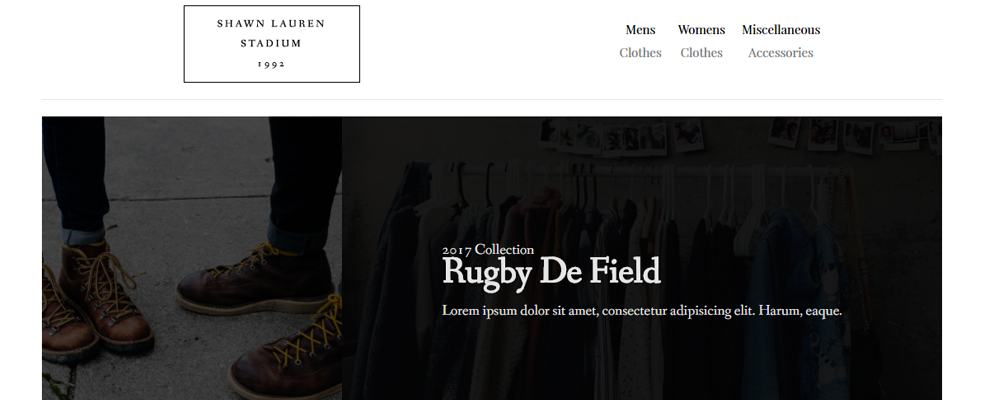
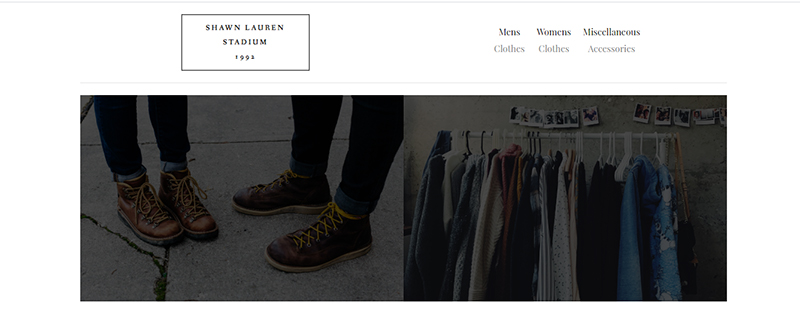
shawn lauren, infrastructure, sb

diff --git a/src/components/pages/portfolio-pages/SophisticatedBlog.js b/src/components/pages/portfolio-pages/SophisticatedBlog.js
@@ -1,0 +1,29 @@
+import React, { Component } from "react";
+import "./portfolio-pages.scss";
+
+class SophisticatedBlog extends Component {
+  render() {
+    return (
+      <React.Fragment>
+        <main className="pf-page">
+          <div className="pf-info">
+            <h2>Sophisticated Blog</h2>
+            <img src={require('./../../../assets/image/sb_logo.jpg')} alt="Sophisticated Blog" className="pf-logo" />
+            <a className="pf-btn" target="_blank" href="https://mohamed-m.github.io/sophisticated-blog/">View on Github</a>
+            </div>
+          <div className="left-panel">
+            <p className="pf-copy">A simple one landing page for a blog with a full viewport height cinemagraph. It is open source and hosted on Github for downloading.</p>
+            <p className="pf-copy">I created this landing page with a goal of making it the index of my blog site. But after further consideration, I pivoted and chose the design in the Articles sections for my blog design.</p>
+            <p className="pf-copy">The technologies were only HTML5 markup and CSS3 custom styles. I utilized Gulp as my task runner, and structured each component and/or page into to a separate SCSS file. I used PostCSS as post-processor, and Sass as the pre-preprocessor. Git was the version control used on this project.</p>
+          </div>
+
+          <div className="right-panel">
+            <img src={require('./../../../assets/image/sb.jpg')} alt="" className="pf-feature-img" />
+            <img src={require('./../../../assets/image/sb2.jpg')} alt="Sophisticated Blog" className="pf-img" />        
+          </div>
+        </main>
+    </React.Fragment>
+    );
+  }
+}
+export default SophisticatedBlog;

diff --git a/src/components/pages/portfolio-pages/ShawnLauren.js b/src/components/pages/portfolio-pages/ShawnLauren.js
@@ -1,0 +1,28 @@
+import React, { Component } from "react";
+import "./portfolio-pages.scss";
+
+class ShawnLauren extends Component {
+  render() {
+    return (
+      <React.Fragment>
+        <main className="pf-page">
+          <div className="pf-info">
+            <h2>Shawn Lauren 1992 Stadium</h2>
+            <img src={require('./../../../assets/image/shawn-lauren_logo.jpg')} alt="Shawn Lauren" className="pf-logo" />
+            <a className="pf-btn" target="_blank" href="https://mohamed-m.github.io/shawn-lauren">Visit Site</a>
+            </div>
+          <div className="left-panel">
+            <p className="pf-copy">A fashion landing page with 2 funnel channels. The title of the site is paying homage to the Ralph Lauren 1992 Stadium collection. Which was a significant moment in urban street fashion, and is still revered to this day.</p>
+            <p className="pf-copy">I created this page for fun, and to experiment with the CSS Flexbox module. It is responsive by using the Mobile First approach. It is open source and can be downloaded/forked.</p>
+            <p className="pf-copy">The technologies were only HTML5 markup and CSS3 custom styles. I utilized Gulp as my task runner, and structured each component and/or page into to a separate SCSS component file. I used PostCSS as post-processor, and Sass as the pre-preprocessor. Git was the version control used on this project.</p>
+          </div>
+
+          <div className="right-panel">
+            <img src={require('./../../../assets/image/shawn-lauren.jpg')} alt="Shawn Lauren Image" className="pf-feature-img" />
+          </div>
+        </main>
+    </React.Fragment>
+    );
+  }
+}
+export default ShawnLauren;

diff --git a/src/components/pages/articles/WordPressOnePage.js b/src/components/pages/articles/WordPressOnePage.js
@@ -1,0 +1,29 @@
+import React, { Component } from "react";
+import "./portfolio-pages.scss";
+
+class WordPressOnePage extends Component {
+  render() {
+    return (
+      <React.Fragment>
+        <main className="pf-page">
+          <div className="pf-info">
+            <h2>Big Jump Entertainment</h2>
+            <img src={require('./../../../assets/image/bigjumplogo.jpg')} alt="Big Jump Entertainment" className="pf-logo" />
+            <a className="pf-btn" target="_blank" href="https://bigjumpent.com/">Visit Site</a>
+            </div>
+          <div className="left-panel">
+            <p className="pf-copy">BIG JUMP Entertainment is a privately owned, independent, 2D hybrid animation production facility that specializes in the seamless combination of traditional and digital techniques.</p>
+            <p className="pf-copy">I was lead front-end developer on this project while working at Baytek. My team and I designed, developed and launched the new online rebranding for Big Jump Ent, a local animation studio. The deliverables I provided were the mobile, tablet and desktop front end development.</p>
+            <p className="pf-copy">The technologies were: WordPress, Divi, HTML5, CSS3, jQuery, JavaScript, Gulp, VS Code.</p>
+          </div>
+
+          <div className="right-panel">
+            <img src={require('./../../../assets/image/bigjump.jpg')} alt="" className="pf-feature-img" />
+            <img src={require('./../../../assets/image/bigjumpstudio.jpg')} alt="Big Jump Entertainment" className="pf-img" />        
+          </div>
+        </main>
+    </React.Fragment>
+    );
+  }
+}
+export default WordPressOnePage;

diff --git a/src/components/pages/portfolio-pages/infrastructure.js b/src/components/pages/portfolio-pages/infrastructure.js
@@ -9,7 +9,7 @@ class Infrastructure extends Component {
           <div className="pf-info">
             <h2>Infrastructure</h2>
             <img src={require('./../../../assets/image/infrastructure_logo.png')} alt="Raising the hammer music festival image" className="pf-logo" />
-            <a className="pf-btn" target="_blank" href="https://www.raisinthehammer.org/">Visit Site</a>
+            <a className="pf-btn" target="_blank" href="https://github.com/Mohamed-M/Infrastructure">View on Github</a>
             </div>
           <div className="left-panel">
             <p>A build system that utilizes Sass as the preprocessor that get's piped into PostCSS, which behaves as a post processor and transpiles various plugins into the source code. The Javascript is minified with gulp-uglify. Gulp is the task runner that ties it altogether and watches/exports all the files in the development folder to the production folder, and also provides a local server with Browsersync.</p>        

diff --git a/src/App.js b/src/App.js
@@ -13,9 +13,11 @@ import Wikileaf from './components/pages/portfolio-pages/Wikileaf';
 import RTHMF from './components/pages/portfolio-pages/RTHMF';
 import HarlemTribune from './components/pages/portfolio-pages/HarlemTribune';
 import Infrastructure from './components/pages/portfolio-pages/Infrastructure';
+import ShawnLauren from './components/pages/portfolio-pages/ShawnLauren';
 import Kasanova from './components/pages/portfolio-pages/Kasanova';
 
 import './App.scss';
+import SophisticatedBlog from './components/pages/portfolio-pages/SophisticatedBlog';
 
 function App() {
   return (
@@ -76,8 +78,16 @@ function App() {
           <Infrastructure />
         </Route>
 
+        <Route path="/shawn-lauren">
+          <ShawnLauren />
+        </Route>
+
         <Route path="/kasanova">
           <Kasanova />
+        </Route>
+
+        <Route path="/sophisticated-blog">
+          <SophisticatedBlog />
         </Route>
 
       </React.Fragment>

diff --git a/src/components/pages/Portfolio.js b/src/components/pages/Portfolio.js
@@ -104,7 +104,7 @@ class Portfolio extends Component {
             </article>
           </a>
 
-          <a href="portfolio/shawn-lauren.html">
+          <a href="/shawn-lauren">
             <article className="portfolio-item">
               <div className="portfolio-banner">
                 <img src={require('./../../assets/image/shawn-lauren_logo.jpg')} alt="Shawn Lauren Logo" />
@@ -122,7 +122,7 @@ class Portfolio extends Component {
             </article>
           </a>
 
-          <a href="portfolio/sophisticated-blog.html">
+          <a href="/sophisticated-blog">
             <article className="portfolio-item">
               <div className="portfolio-banner">
                 <img src={require('./../../assets/image/sb_logo.jpg')} alt="Sophisticated Blog" />

diff --git a/src/components/pages/Contact.scss b/src/components/pages/Contact.scss
@@ -31,6 +31,10 @@
 
 .contact-info { background-color: $eggshell-white; }
 
+.contact-form {
+  background-color: #fff;
+}
+
 .contact-form ul { 
   margin: 0;
   padding: 0;
@@ -46,7 +50,10 @@
 
 .contact-form a { color: $blue-gray-600; }
 
-.contact-info { border-bottom:1px solid $navy-blue; }
+.contact-info { 
+  border-bottom:1px solid $navy-blue; 
+  background-color: #fff; 
+}
 
 .contact-info h3 {
   text-align: left;

diff --git a/src/components/pages/Articles.scss b/src/components/pages/Articles.scss
@@ -22,9 +22,9 @@
   padding: 1.5rem 2rem;
   margin-top: 1rem;
   border: .1rem solid #ccc;
-  border-left: .5rem solid #000;
+  border-left: .5rem solid $navy-blue;
 
-  background-color: #eee;
+  background-color: #fff;
   
   &:hover {
     padding-left: 3rem;
@@ -60,6 +60,6 @@
 
 .article-date {
   font-size: 1rem;
-  color: $blue-gray-300;
+  color: $navy-blue;
 }
 

diff --git a/src/components/pages/About.scss b/src/components/pages/About.scss
@@ -5,7 +5,7 @@
   flex-flow: column wrap;
   justify-content: space-between;
 
-  margin: 1rem auto 0;
+  margin: 0 auto;
   width: 100%;
   padding: 0 40px;
 
